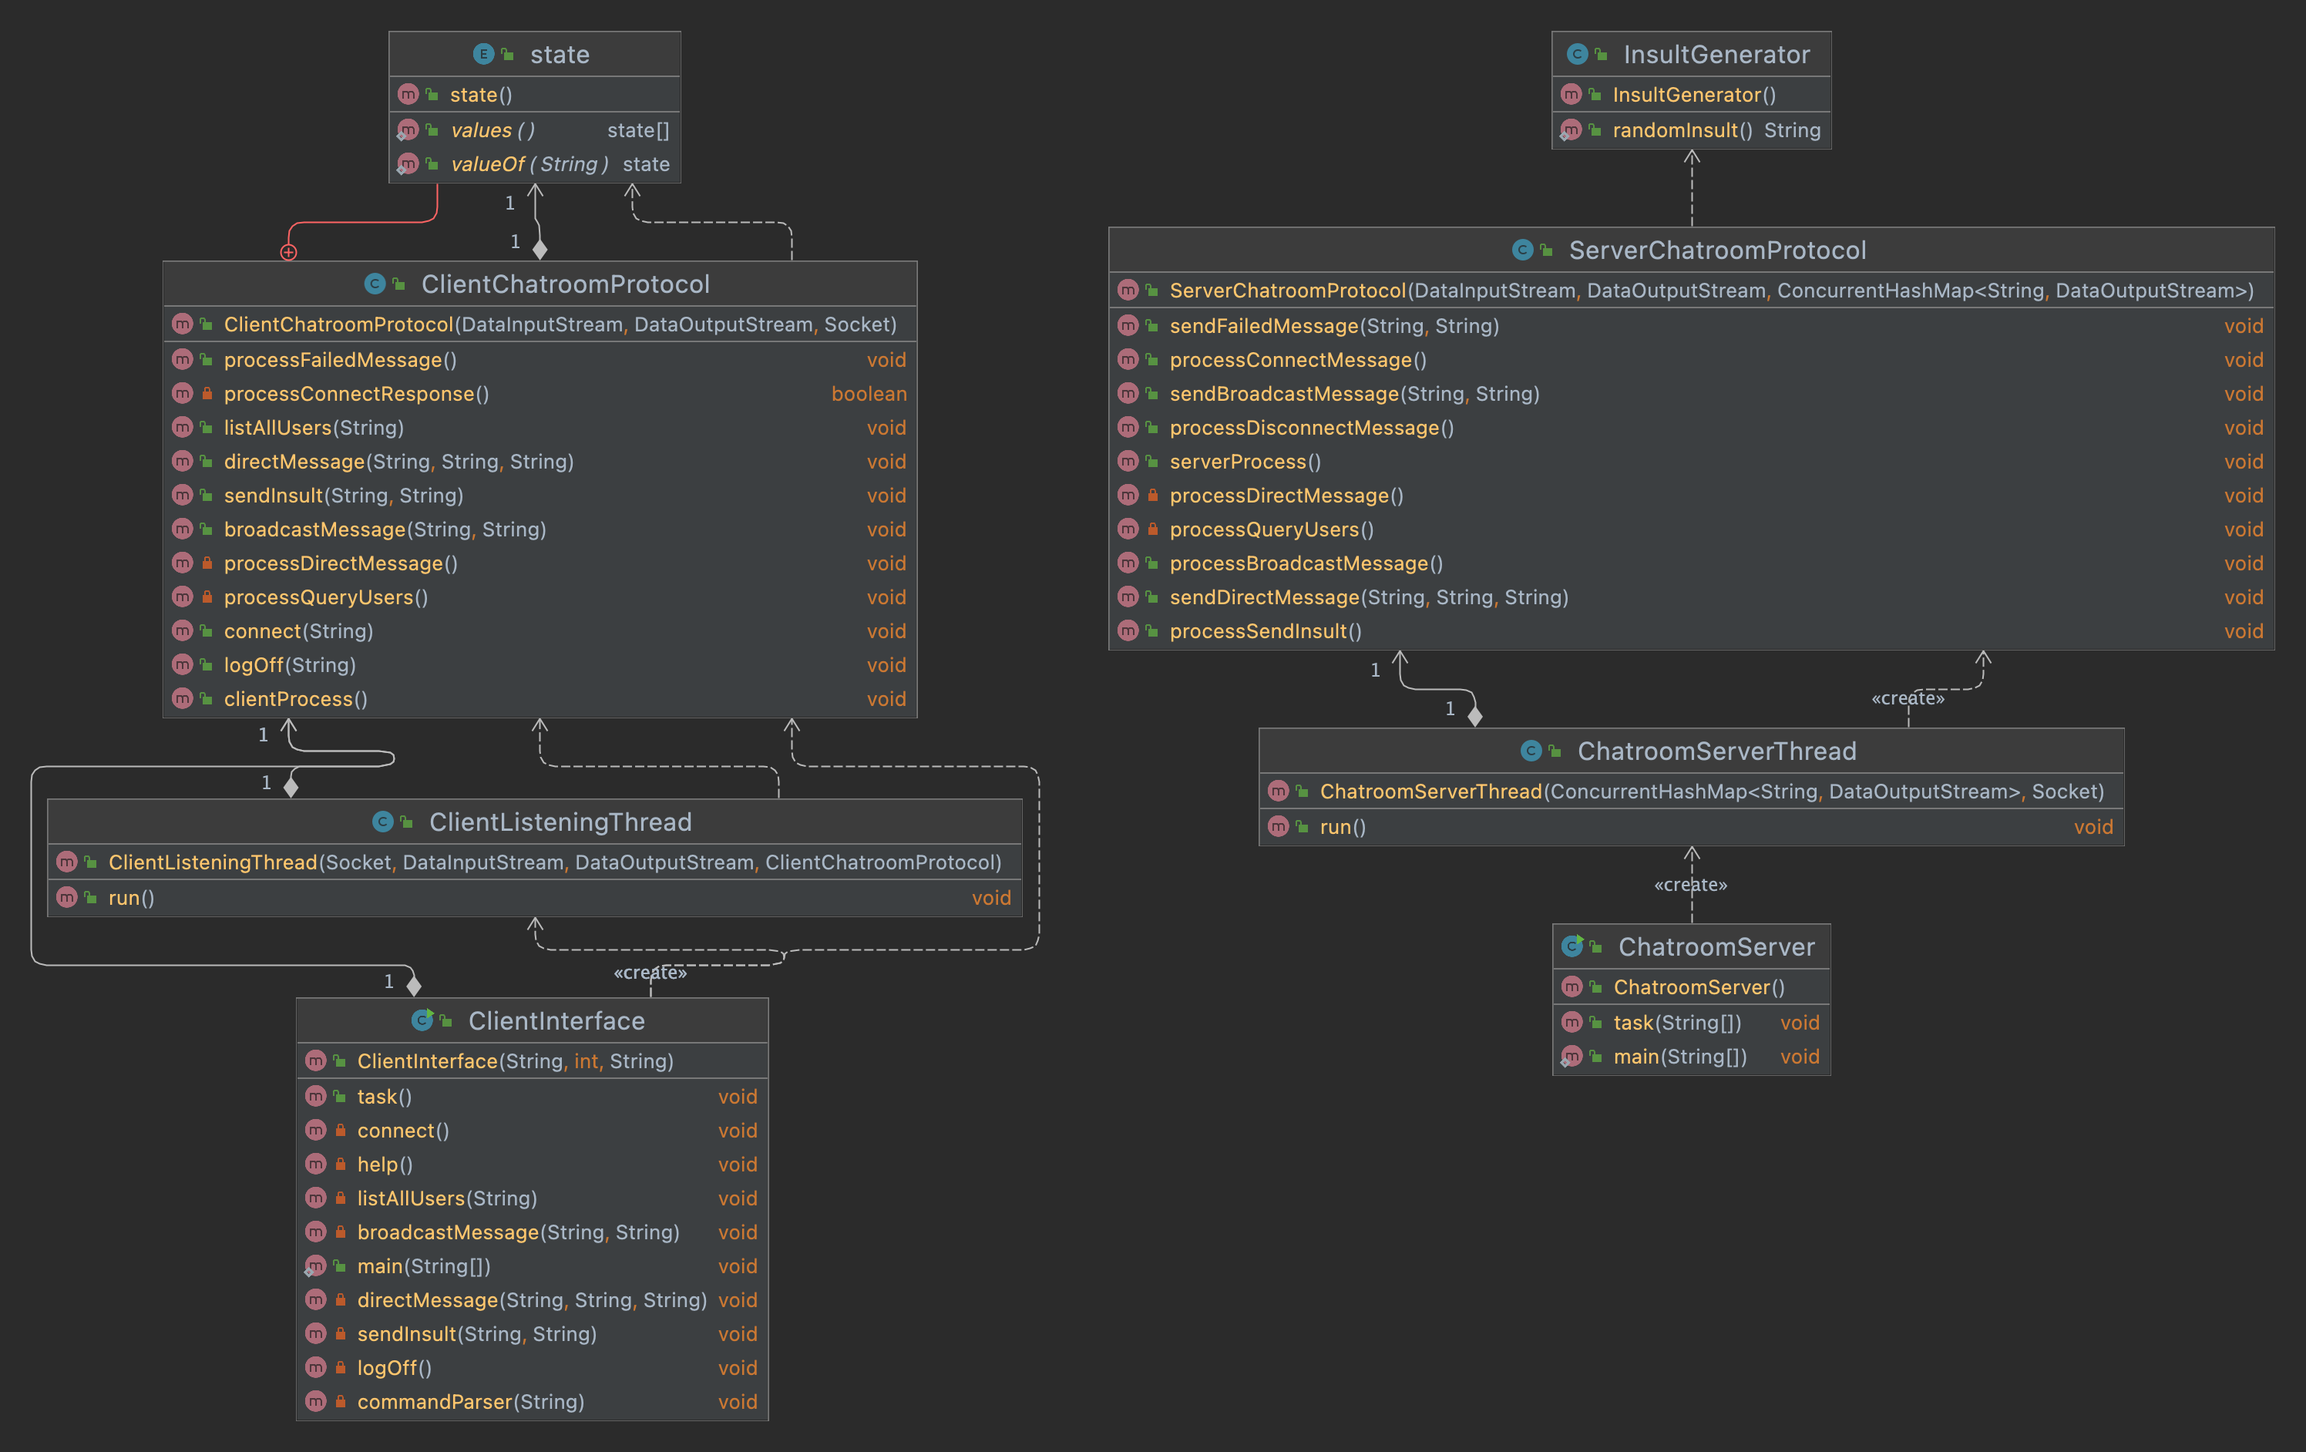
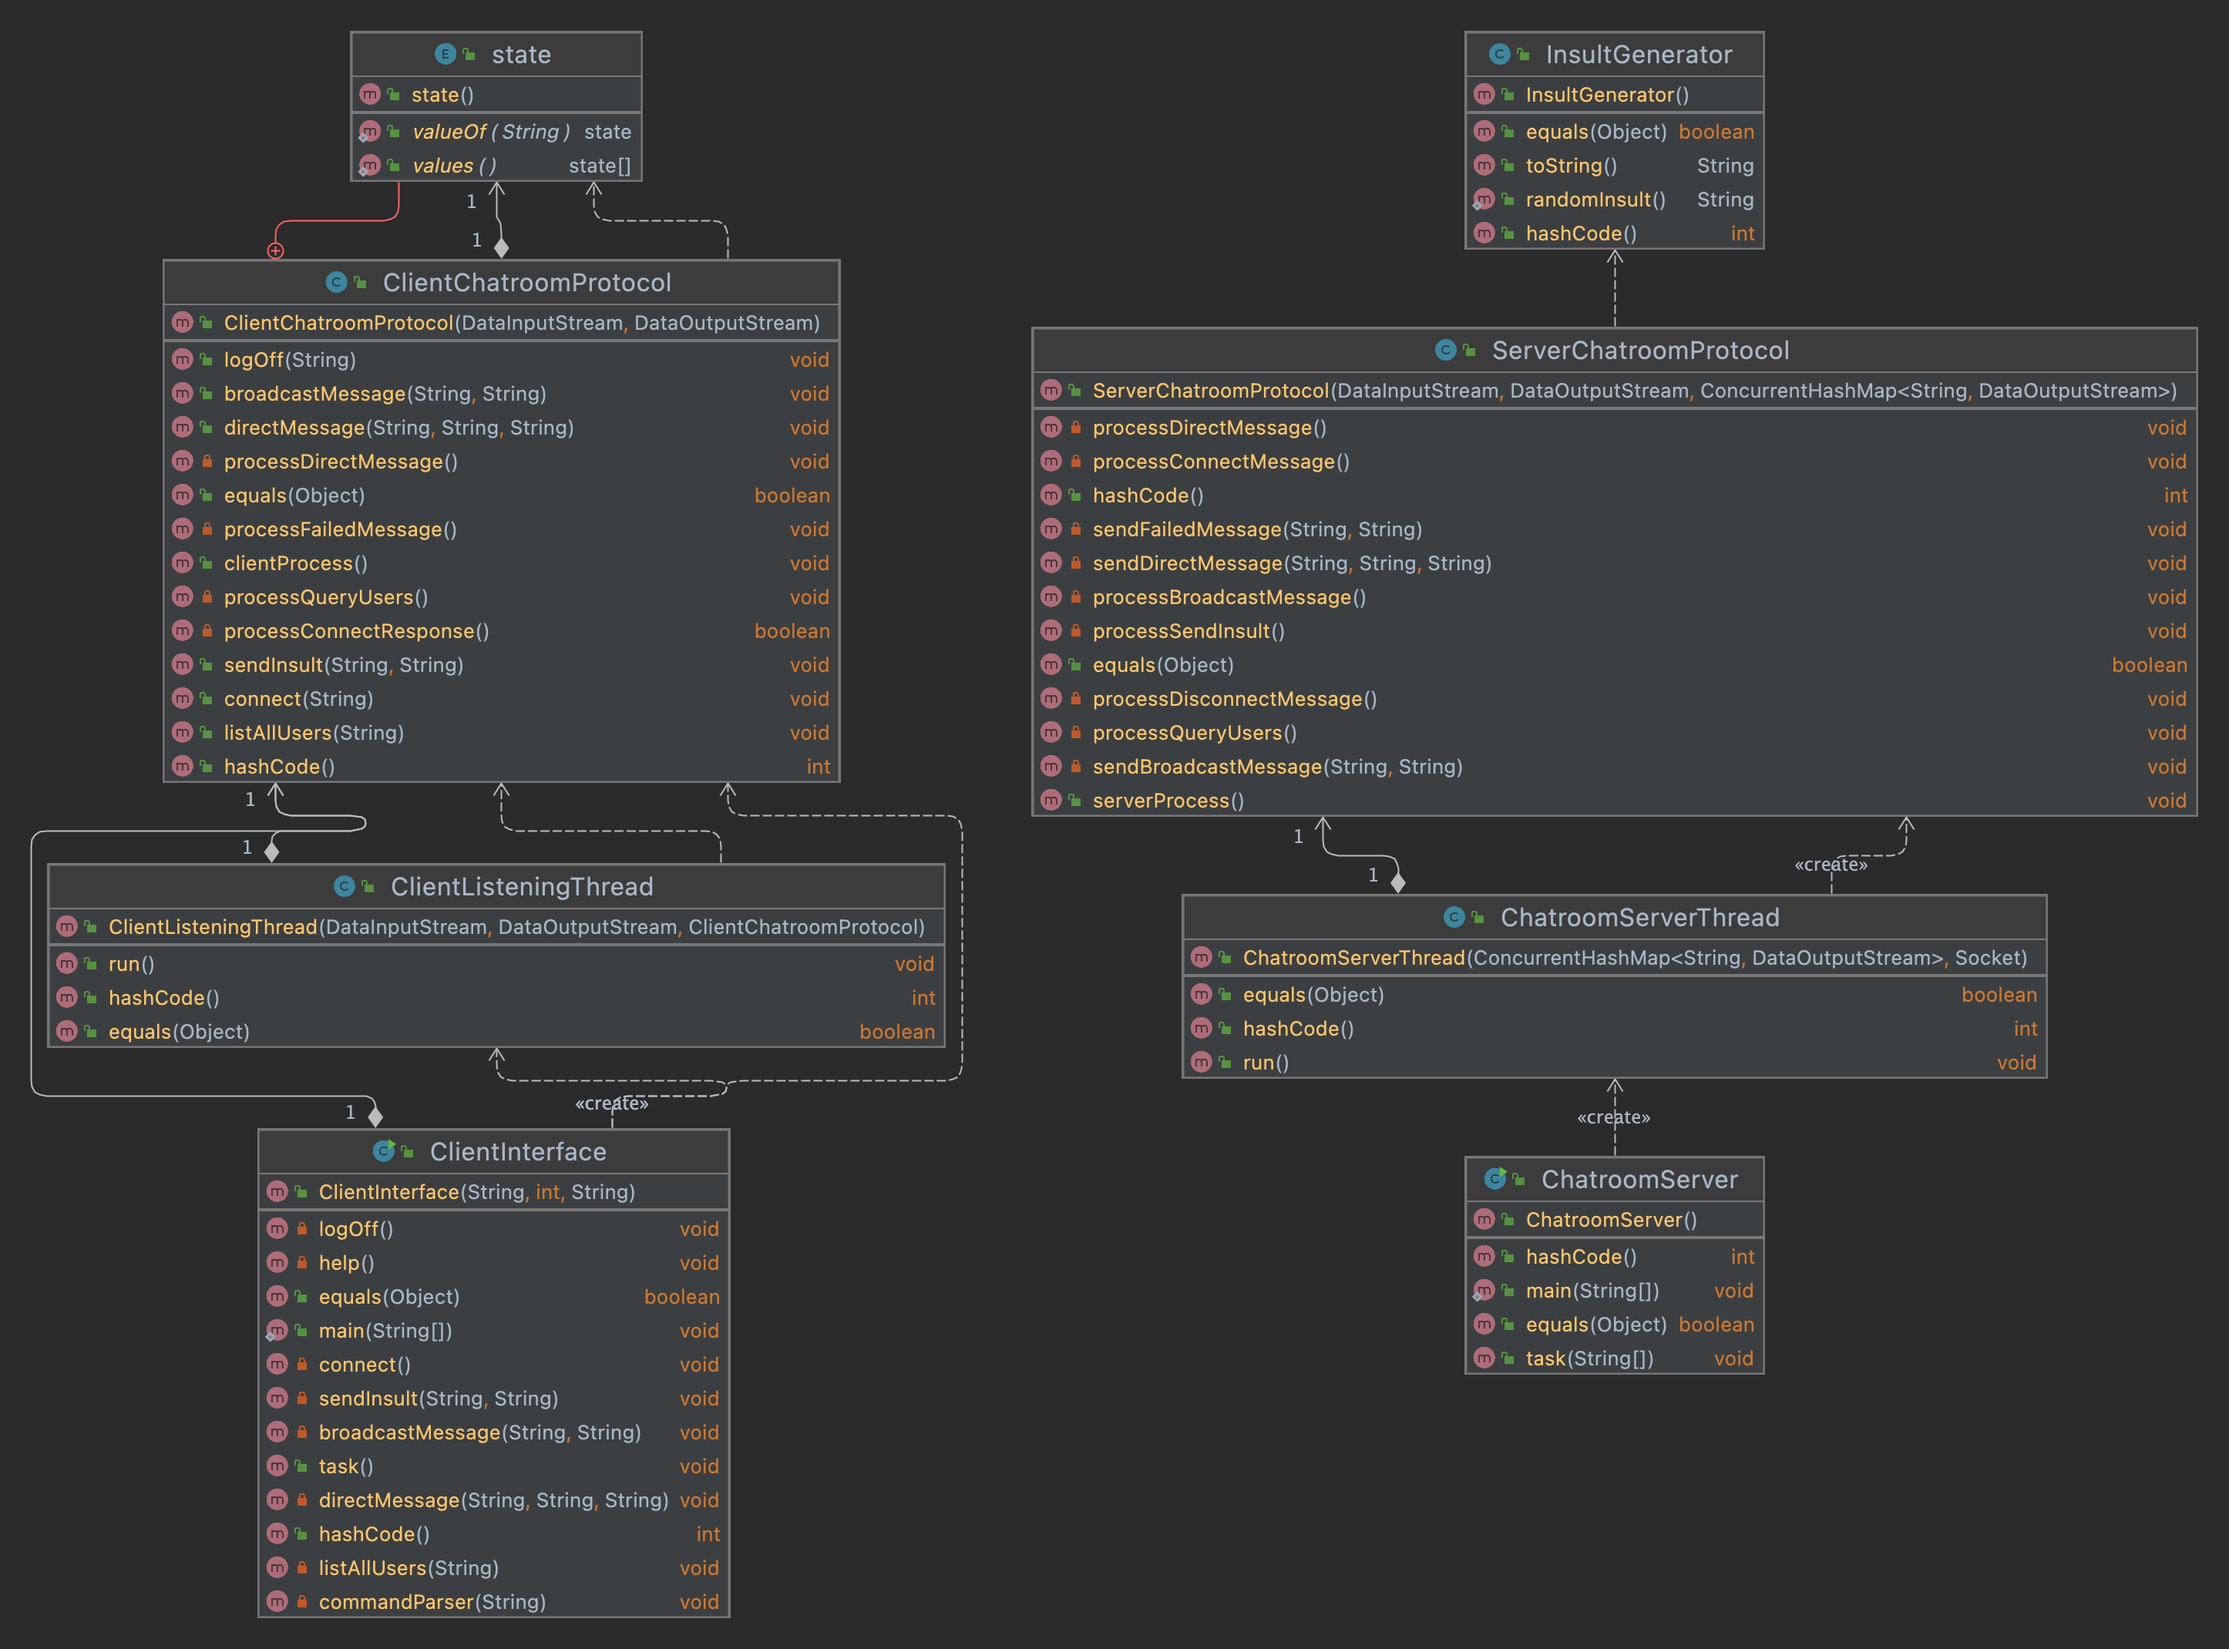
changed access modifiers, added mockito

diff --git a/assignment6/src/main/java/Server/ServerChatroomProtocol.java b/assignment6/src/main/java/Server/ServerChatroomProtocol.java
@@ -77,7 +77,7 @@ public class ServerChatroomProtocol {
    *
    * @throws IOException error in stream read write
    */
-  public void processConnectMessage()
+  private void processConnectMessage()
       throws IOException {
     in.readChar();
     int usernameSize = in.readInt();
@@ -116,7 +116,7 @@ public class ServerChatroomProtocol {
    *
    * @throws IOException error in stream read write
    */
-  public void processDisconnectMessage() throws IOException {
+  private void processDisconnectMessage() throws IOException {
     in.readChar();
     int usernameSize = in.readInt();
     in.readChar();
@@ -213,7 +213,7 @@ public class ServerChatroomProtocol {
    *
    * @throws IOException error in stream read write
    */
-  public void processBroadcastMessage() throws IOException {
+  private void processBroadcastMessage() throws IOException {
     in.readChar();
     int fromUsernameSize = in.readInt();
     in.readChar();
@@ -232,7 +232,7 @@ public class ServerChatroomProtocol {
    *
    * @throws IOException error in stream read write
    */
-  public void processSendInsult() throws IOException {
+  private void processSendInsult() throws IOException {
     in.readChar();
     int fromUsernameSize = in.readInt();
     System.out.println(fromUsernameSize);
@@ -266,7 +266,7 @@ public class ServerChatroomProtocol {
    * @param message message content
    * @throws IOException error in stream read write
    */
-  public void sendFailedMessage(String to, String message) throws IOException {
+  private void sendFailedMessage(String to, String message) throws IOException {
     DataOutputStream out = sharedBuffers.get(to);
     synchronized (out) {
       out.writeInt(FAIL_MESSAGE);
@@ -285,7 +285,7 @@ public class ServerChatroomProtocol {
    * @param message message content
    * @throws IOException error in stream read write
    */
-  public void sendDirectMessage(String from, String to, String message) throws IOException {
+  private void sendDirectMessage(String from, String to, String message) throws IOException {
     DataOutputStream out = sharedBuffers.get(to);
     synchronized (out) {
       out.writeInt(DIRECT_MESSAGE);
@@ -311,7 +311,7 @@ public class ServerChatroomProtocol {
    * @param message message content
    * @throws IOException error in stream read write
    */
-  public void sendBroadcastMessage(String from, String message) throws IOException {
+  private void sendBroadcastMessage(String from, String message) throws IOException {
     for (String key : sharedBuffers.keySet()) {
       sendDirectMessage(from, key, message);
     }

diff --git a/assignment6/src/test/java/Server/ServerChatroomProtocolTest.java b/assignment6/src/test/java/Server/ServerChatroomProtocolTest.java
@@ -1,46 +1,37 @@
 package Server;
 
 import static org.junit.jupiter.api.Assertions.*;
+import static org.mockito.Mockito.*;
 
+import Client.ClientChatroomProtocol;
+import java.io.ByteArrayInputStream;
+import java.io.ByteArrayOutputStream;
+import java.io.DataInputStream;
+import java.io.DataOutputStream;
+import java.io.IOException;
+import java.nio.charset.StandardCharsets;
+import java.util.concurrent.ConcurrentHashMap;
 import org.junit.jupiter.api.BeforeEach;
 import org.junit.jupiter.api.Test;
 
 class ServerChatroomProtocolTest {
+  private ServerChatroomProtocol protocol;
+  private ConcurrentHashMap<String, DataOutputStream> sharedBuffers = new ConcurrentHashMap<>();
+  private DataInputStream in = mock(DataInputStream.class);
+  private DataOutputStream out = mock(DataOutputStream.class);
 
   @BeforeEach
-  void setUp() {
+  void setUp() throws IOException {
   }
 
   @Test
-  void serverProcess() {
-  }
+  void serverProcessConnectMessage() throws IOException {
+    when(in.readInt()).thenReturn(19).thenReturn(3);
+    when(in.readChar()).thenReturn(' ');
+    when(in.read(any(byte[].class))).thenReturn(3);
 
-  @Test
-  void processConnectMessage() {
-  }
+    this.protocol = new ServerChatroomProtocol(in, out, sharedBuffers);
 
-  @Test
-  void processDisconnectMessage() {
-  }
-
-  @Test
-  void processBroadcastMessage() {
-  }
-
-  @Test
-  void processSendInsult() {
-  }
-
-  @Test
-  void sendFailedMessage() {
-  }
-
-  @Test
-  void sendDirectMessage() {
-  }
-
-  @Test
-  void sendBroadcastMessage() {
   }
 
   @Test

diff --git a/assignment6/src/test/java/Client/ClientListeningThreadTest.java b/assignment6/src/test/java/Client/ClientListeningThreadTest.java
@@ -2,20 +2,36 @@ package Client;
 
 import static org.junit.jupiter.api.Assertions.*;
 
+import java.io.ByteArrayInputStream;
+import java.io.ByteArrayOutputStream;
+import java.io.DataInputStream;
+import java.io.DataOutputStream;
+import java.nio.charset.StandardCharsets;
 import org.junit.jupiter.api.BeforeEach;
 import org.junit.jupiter.api.Test;
 
 class ClientListeningThreadTest {
+  private ClientListeningThread clientListeningThread;
 
   @BeforeEach
   void setUp() {
+    DataInputStream in = new DataInputStream(new ByteArrayInputStream("abc".getBytes(
+        StandardCharsets.UTF_8)));
+    DataOutputStream out = new DataOutputStream(new ByteArrayOutputStream());
+    ClientChatroomProtocol protocol = new ClientChatroomProtocol(in, out);
+    this.clientListeningThread = new ClientListeningThread(in, out, protocol);
   }
 
   @Test
   void testEquals() {
+    assertEquals(clientListeningThread, clientListeningThread);
+    assertNotEquals(clientListeningThread, null);
+    assertNotEquals(clientListeningThread, 1);
+    assertNotEquals(clientListeningThread, new ClientListeningThread(null, null, null));
   }
 
   @Test
   void testHashCode() {
+    assertEquals(clientListeningThread.hashCode(), clientListeningThread.hashCode());
   }
 }

diff --git a/assignment6/src/main/java/Client/ClientChatroomProtocol.java b/assignment6/src/main/java/Client/ClientChatroomProtocol.java
@@ -159,7 +159,7 @@ public class ClientChatroomProtocol {
    *
    * @throws IOException error in stream read write
    */
-  public void processFailedMessage() throws IOException {
+  private void processFailedMessage() throws IOException {
     in.readChar();
     int sizeOfMessage = in.readInt();
     in.readChar();
@@ -313,6 +313,9 @@ public class ClientChatroomProtocol {
     return Objects.hash(in, out, running, username, usernameToBe, myState);
   }
 
+  /**
+   * connection status
+   */
   public enum state {
     CONNECTED,
     NOT_CONNECTED

diff --git a/assignment6/src/test/java/Server/ChatroomServerThreadTest.java b/assignment6/src/test/java/Server/ChatroomServerThreadTest.java
@@ -2,17 +2,21 @@ package Server;
 
 import static org.junit.jupiter.api.Assertions.*;
 
+import java.io.IOException;
+import java.net.Socket;
+import java.util.concurrent.ConcurrentHashMap;
 import org.junit.jupiter.api.BeforeEach;
 import org.junit.jupiter.api.Test;
 
 class ChatroomServerThreadTest {
 
   @BeforeEach
-  void setUp() {
+  void setUp() throws IOException {
   }
 
   @Test
-  void testEquals() {
+  void testEquals() throws IOException {
+
   }
 
   @Test

diff --git a/assignment6/src/test/java/Server/ChatroomServerTest.java b/assignment6/src/test/java/Server/ChatroomServerTest.java
@@ -25,5 +25,9 @@ class ChatroomServerTest {
 
   @Test
   void testEquals() {
+    assertEquals(chatroomServer, chatroomServer);
+    assertNotEquals(chatroomServer, new ChatroomServer());
+    assertNotEquals(chatroomServer, null);
+    assertNotEquals(chatroomServer, 1);
   }
 }

diff --git a/assignment6/src/test/java/Client/ClientInterfaceTest.java b/assignment6/src/test/java/Client/ClientInterfaceTest.java
@@ -6,9 +6,10 @@ import org.junit.jupiter.api.BeforeEach;
 import org.junit.jupiter.api.Test;
 
 class ClientInterfaceTest {
-
+  private ClientInterface clientInterface;
   @BeforeEach
   void setUp() {
+
   }
 
   @Test
